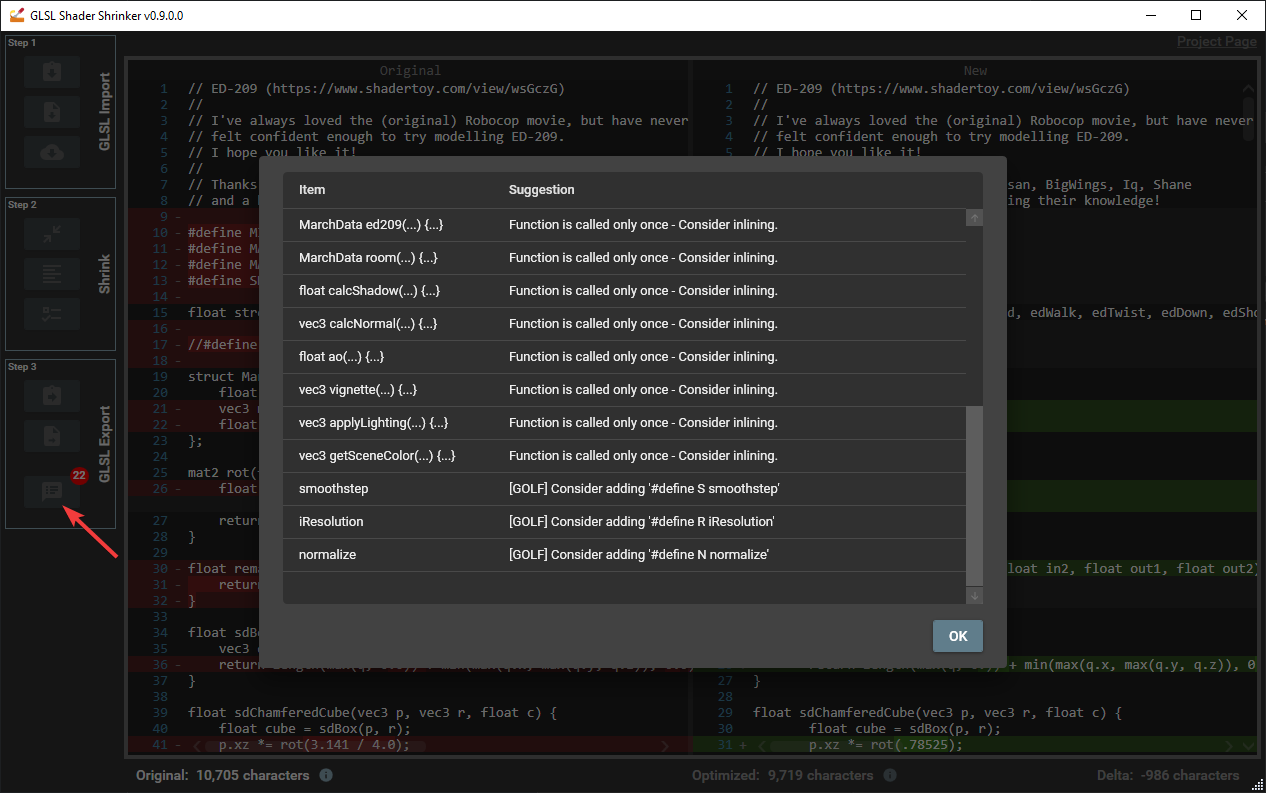
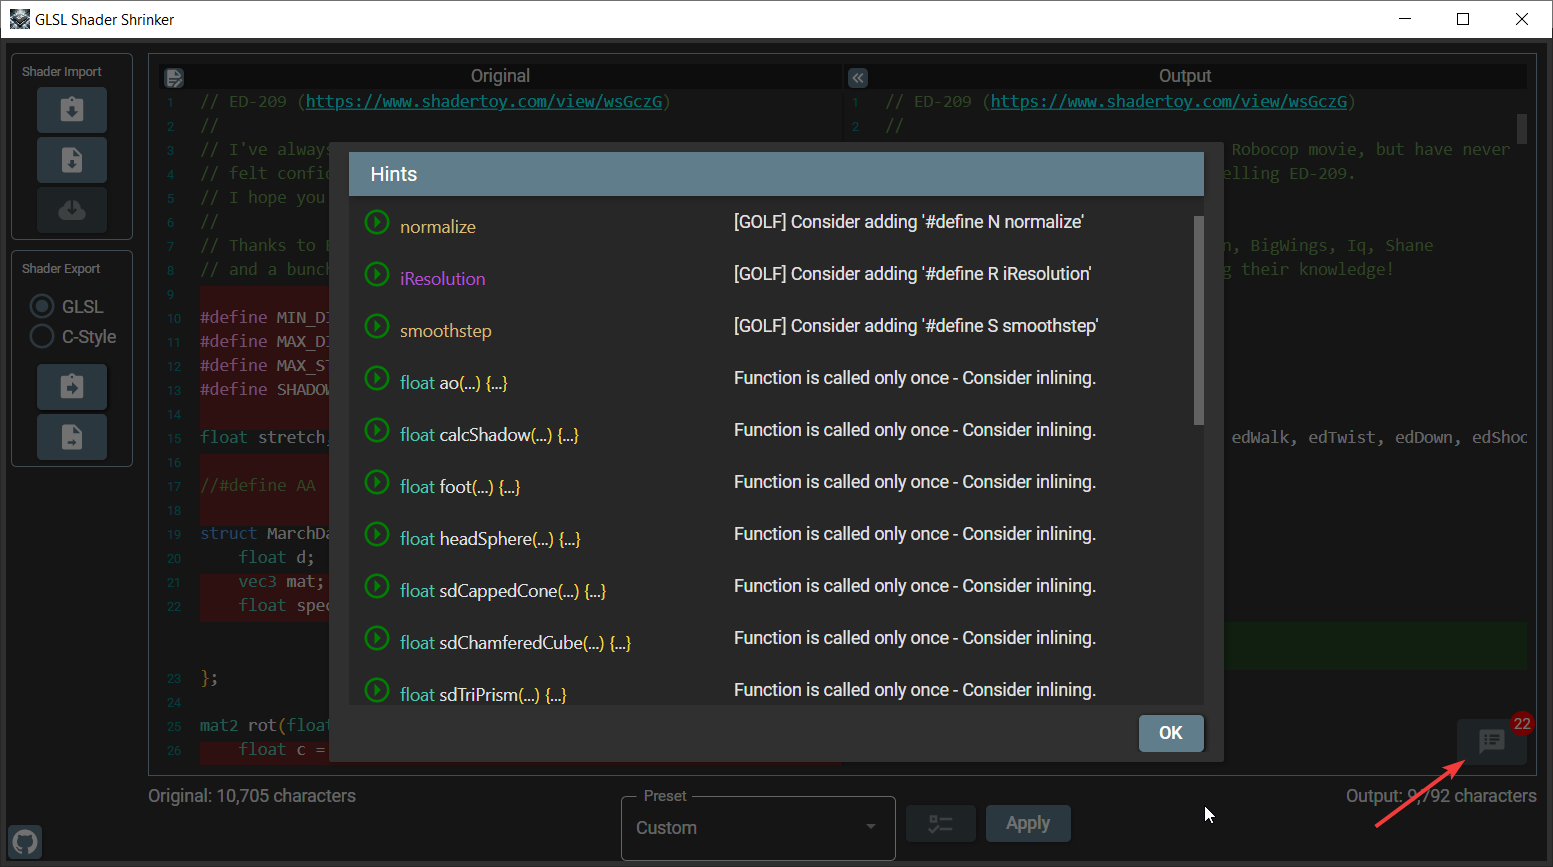
Other: Shrinker.Avalonia - Update the readme.

Changed region(s): [[0.0, 0.0, 1.0, 0.9987], [0.4005, 0.3632, 0.7085, 0.454], [0.8626, 0.3934, 0.8934, 0.4237]]

diff --git a/README.md b/README.md
@@ -5,15 +5,15 @@
 * Requires the [ASP.NET runtime](https://dotnet.microsoft.com/download/dotnet/thank-you/runtime-aspnetcore-6.0.0-windows-hosting-bundle-installer), if not already installed.
 
 ## What Is It For?
-GLSL Shader Shrinker is a Windows GUI tool that attempts to reduce the size of GLSL fragment shader code, whilst keeping it _readable_ and understandable.
+GLSL Shader Shrinker is a cross-platform GUI tool that attempts to reduce the size of GLSL fragment shader code, whilst keeping it _readable_ and understandable.
 
-It is written in C# using WPF and Visual Studio 2019, and has several hundred NUnit-powered unit tests.
+It is written in C# using [Avalonia](https://avaloniaui.net/) and [JetBrains Rider](https://www.jetbrains.com/rider/), and has several hundred NUnit-powered unit tests.
 
 ![Main UI](img/ED209.png?raw=true "Main UI")
 
-It is designed to work primarily with code from [Shadertoy](https://www.shadertoy.com/), but has limited support for other styles of GLSL too (E.g. [Bonzomatic](https://github.com/Gargaj/Bonzomatic))
+It is designed to work primarily with code from [Shadertoy](https://www.shadertoy.com/), but has limited support for other styles of GLSL too (E.g. [Bonzomatic](https://github.com/Gargaj/Bonzomatic), [Posh Brolly](https://www.poshbrolly.net/))
 
-After writing a Shadertoy shader, usually from my boilerplate starting code, there is a sequence of operations I perform:
+After writing a shader, usually from my boilerplate starting code, there is a sequence of operations I perform:
 * Delete dead/commented-out code.
 * Remove unused functions.
 * Inline some constants (Max raymarching distance, 'hit test' accuracy, ...)
@@ -65,9 +65,9 @@ void mainImage(out vec4 fragColor, vec2 fragCoord) {
 ---
 ## Getting Started
 
-First, download and run the Windows installer from the 'Releases' section.
+First, download and run the installer from the 'Releases' section.
 
-**Note:** The application requires the Microsoft .NET 5 runtimes to be installed. If they are not found the application will automatically prompt for them to be downloaded.
+**Note:** The application requires the Microsoft .NET 7 runtimes to be installed. If they are not found the application will automatically prompt for them to be downloaded.
 
 ### Step 1 - Import GLSL Code
 You first need to import your GLSL into the tool.
@@ -81,71 +81,133 @@ This can be achieved using:
 
 ![Shadertoy](img/Shadertoy.png?raw=true "Shadertoy")
 
-### Step 2 - Shrink GLSL Code
+### Step 2 - Process GLSL Code
 Next choose the level of processing you want to apply.
 
 ![Shrink](img/Shrink.png?raw=true "Shrink")
 
-* Maximum processing - All options enabled.
-* Minimal processing - Minimal changes (Mostly code reformatting).
-* Custom options - Toggle exactly which processing features you require (Including GOLFing options)
+* Maximum - All options enabled.
+* Reformat - Minimal changes (Mostly code reformatting).
+* Remove Dead Code - Remove unreferences functions and unreachable code.
+* Custom - Toggle exactly which processing features you require (Including GOLFing options)
 
 ### Step 3 - Exporting GLSL Code
-Export the 'shrunk' GLSL.
+Export the 'processed' GLSL.
 
 ![Export](img/Export.png?raw=true "Export")
 
 This can be achieved using:
 * Copy'n'paste from the clipboard. (CTRL-C)
-* Export from a text file.
+* Export to a text file.
 
 ...and then use with Shadertoy, Bonzomatic, etc.
 
 ---
 ## Hints
-After shrinking your GLSL code, you might find some 'hints' are available.
+After processing your GLSL code, you might find some 'hints' are available.
 These range from 'this function isn't used' or 'this function is only used once, so you might like to inline it', all the way to some GOLFing hints.
 
 ![Export](img/Hints.png?raw=true "Export")
 
 ---
 ## Limitations
-Despite a lot of effort spent trying to ensure the tool produces great output every time, there are always going to be edge cases caused by different coding styles and patterns of content.
+Despite a lot of effort spent trying to ensure the tool produces valid output every time, there are always going to be edge cases caused by different coding styles and patterns of content.
 
 Heavy use of ```#define``` macros and ```#if...#else...#endif``` blocks can cause confusion when trying to parse the code.  Compilers have the luxury of seeing which specific code path is enabled, but a tool like this needs to understand **all** possible code paths at the same time - Not always easy!
 
-I apologize in advance if you find any issues - If I have the time I'll try my best to resolve them!
-
-In most cases they can be worked-around using a set of 'custom' settings which disable the problematic feature.
+In most cases issues can be worked-around using a set of 'custom' settings which disable the problematic feature.
 
 ---
 # Features
-* [Remove Comments](#remove-comments)
-* [Keep Header Comments](#keep-header-comments)
-* [Remove Unused Functions](#remove-unused-functions)
-* [Remove Unused Variables](#remove-unused-variables)
-* [Remove Unreachable Code](#remove-unreachable-code)
-* [Remove Disabled Code](#remove-disabled-code)
-* [Simplify Function Declarations](#simplify-function-declarations)
-* [Simplify Function Parameters](#simplify-function-parameters)
-* [Group Variable Declarations](#group-variable-declarations)
-* [Join Variable Declarations and Assignments](#join-variable-declarations-and-assignments)
-* [Detect New Constants](#detect-new-constants)
-* [Inline Constant Variables](#inline-constant-variables)
-* [Inline Constant #defines](#inline-constant-#defines)
-* [Simplify Number Format](#simplify-number-format)
-* [Simplify Vector Construction](#simplify-vector-construction)
-* [Simplify Vector References](#simplify-vector-references)
-* [Simplify Code Branching](#simplify-code-branching)
-* [Combine Consecutive Assignments](#combine-consecutive-assignments)
-* [Combine Assignment With Single Use](#combine-assignment-with-single-use)
-* [Introduce +=, -=, /=, *=](#introduce-+=,--=,-/=,-*=)
-* [Simplify Mathematical Expressions](#simplify-mathematical-expressions)
-* [Perform Simple Arithmetic](#perform-simple-arithmetic)
-* [Replace Functions Calls With Result](#replace-functions-calls-with-result)
-* [Move constant parameters to within called functions](#move-constant-parameters-to-within-called-functions)
-* [GOLF user defined code names](#golf-user-defined-code-names)
-* [Define common terms](#define-common-terms)
+- [GLSL Shader Shrinker](#glsl-shader-shrinker)
+  - [What Is It For?](#what-is-it-for)
+  - [What It *Can* Do](#what-it-can-do)
+  - [Example (Shadertoy Starting Point)](#example-shadertoy-starting-point)
+    - [Before Processing](#before-processing)
+    - [After Processing](#after-processing)
+  - [Getting Started](#getting-started)
+    - [Step 1 - Import GLSL Code](#step-1---import-glsl-code)
+    - [Step 2 - Process GLSL Code](#step-2---process-glsl-code)
+    - [Step 3 - Exporting GLSL Code](#step-3---exporting-glsl-code)
+  - [Hints](#hints)
+  - [Limitations](#limitations)
+- [Features](#features)
+  - [Remove Comments](#remove-comments)
+      - [Before](#before)
+      - [After](#after)
+  - [Keep Header Comments](#keep-header-comments)
+      - [Before](#before-1)
+      - [After](#after-1)
+  - [Remove Unused Functions](#remove-unused-functions)
+  - [Remove Unused Variables](#remove-unused-variables)
+      - [Before](#before-2)
+      - [After](#after-2)
+  - [Remove Unreachable Code](#remove-unreachable-code)
+      - [Before](#before-3)
+      - [After](#after-3)
+  - [Remove Disabled Code](#remove-disabled-code)
+      - [Before](#before-4)
+      - [After](#after-4)
+  - [Simplify Function Declarations](#simplify-function-declarations)
+      - [Before](#before-5)
+      - [After](#after-5)
+  - [Simplify Function Parameters](#simplify-function-parameters)
+      - [Before](#before-6)
+      - [After](#after-6)
+  - [Group Variable Declarations](#group-variable-declarations)
+      - [Before](#before-7)
+      - [After](#after-7)
+  - [Join Variable Declarations and Assignments](#join-variable-declarations-and-assignments)
+      - [Before](#before-8)
+      - [After](#after-8)
+  - [Detect New Constants](#detect-new-constants)
+      - [Before](#before-9)
+      - [After](#after-9)
+  - [Inline Constant Variables](#inline-constant-variables)
+      - [Before](#before-10)
+      - [After](#after-10)
+  - [Inline Constant #defines](#inline-constant-defines)
+      - [Before](#before-11)
+      - [After](#after-11)
+  - [Simplify Number Format](#simplify-number-format)
+      - [Before](#before-12)
+      - [After](#after-12)
+  - [Simplify Vector Construction](#simplify-vector-construction)
+      - [Before](#before-13)
+      - [After](#after-13)
+  - [Simplify Vector References](#simplify-vector-references)
+      - [Before](#before-14)
+      - [After](#after-14)
+  - [Simplify Code Branching](#simplify-code-branching)
+      - [Before](#before-15)
+      - [After](#after-15)
+  - [Combine Consecutive Assignments](#combine-consecutive-assignments)
+      - [Before](#before-16)
+      - [After](#after-16)
+  - [Combine Assignment With Single Use](#combine-assignment-with-single-use)
+      - [Before](#before-17)
+      - [After](#after-17)
+      - [Before](#before-18)
+      - [After](#after-18)
+  - [Introduce +=, -=, /=, \*=](#introduce-----)
+      - [Before](#before-19)
+      - [After](#after-19)
+  - [Simplify Mathematical Expressions](#simplify-mathematical-expressions)
+      - [Before](#before-20)
+      - [After](#after-20)
+  - [Perform Simple Arithmetic](#perform-simple-arithmetic)
+  - [Replace Functions Calls With Result](#replace-functions-calls-with-result)
+      - [Before](#before-21)
+      - [After](#after-21)
+  - [Move constant parameters to within called functions](#move-constant-parameters-to-within-called-functions)
+      - [Before](#before-22)
+      - [After](#after-22)
+  - [GOLF user defined code names](#golf-user-defined-code-names)
+      - [Before](#before-23)
+      - [After](#after-23)
+  - [Define common terms](#define-common-terms)
+      - [Before](#before-24)
+      - [After](#after-24)
 ## Remove Comments
 Remove all C/C++ -style comments from the code.
 #### Before
